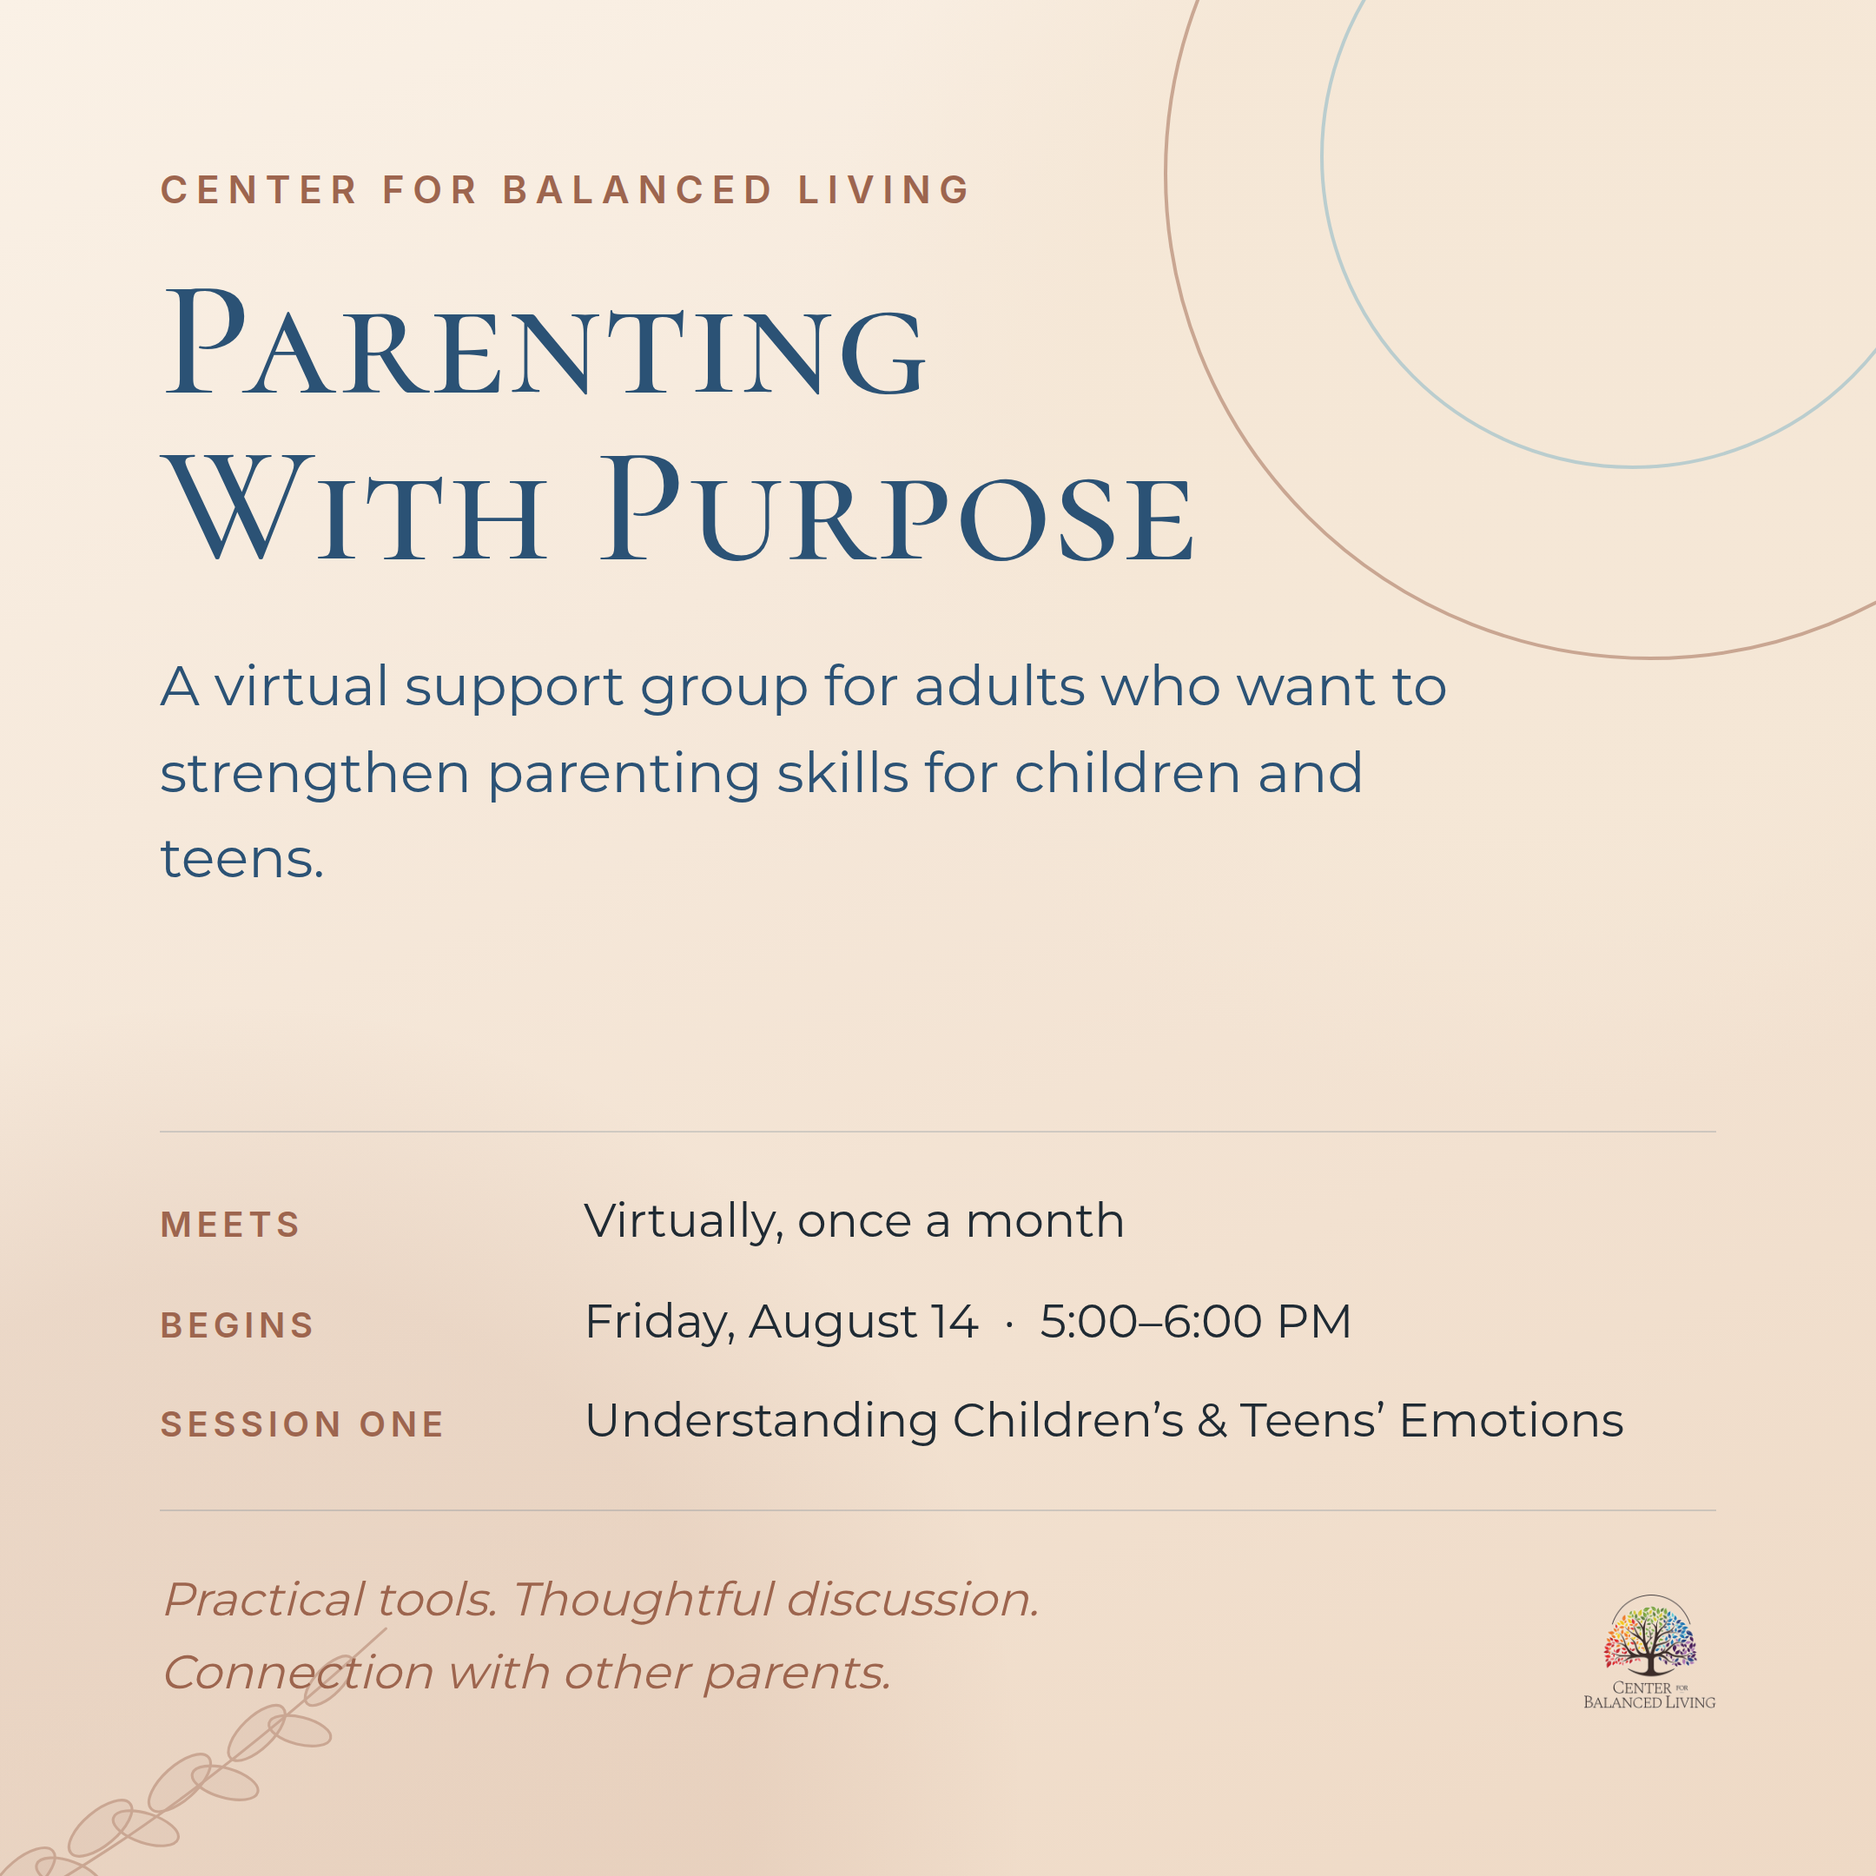
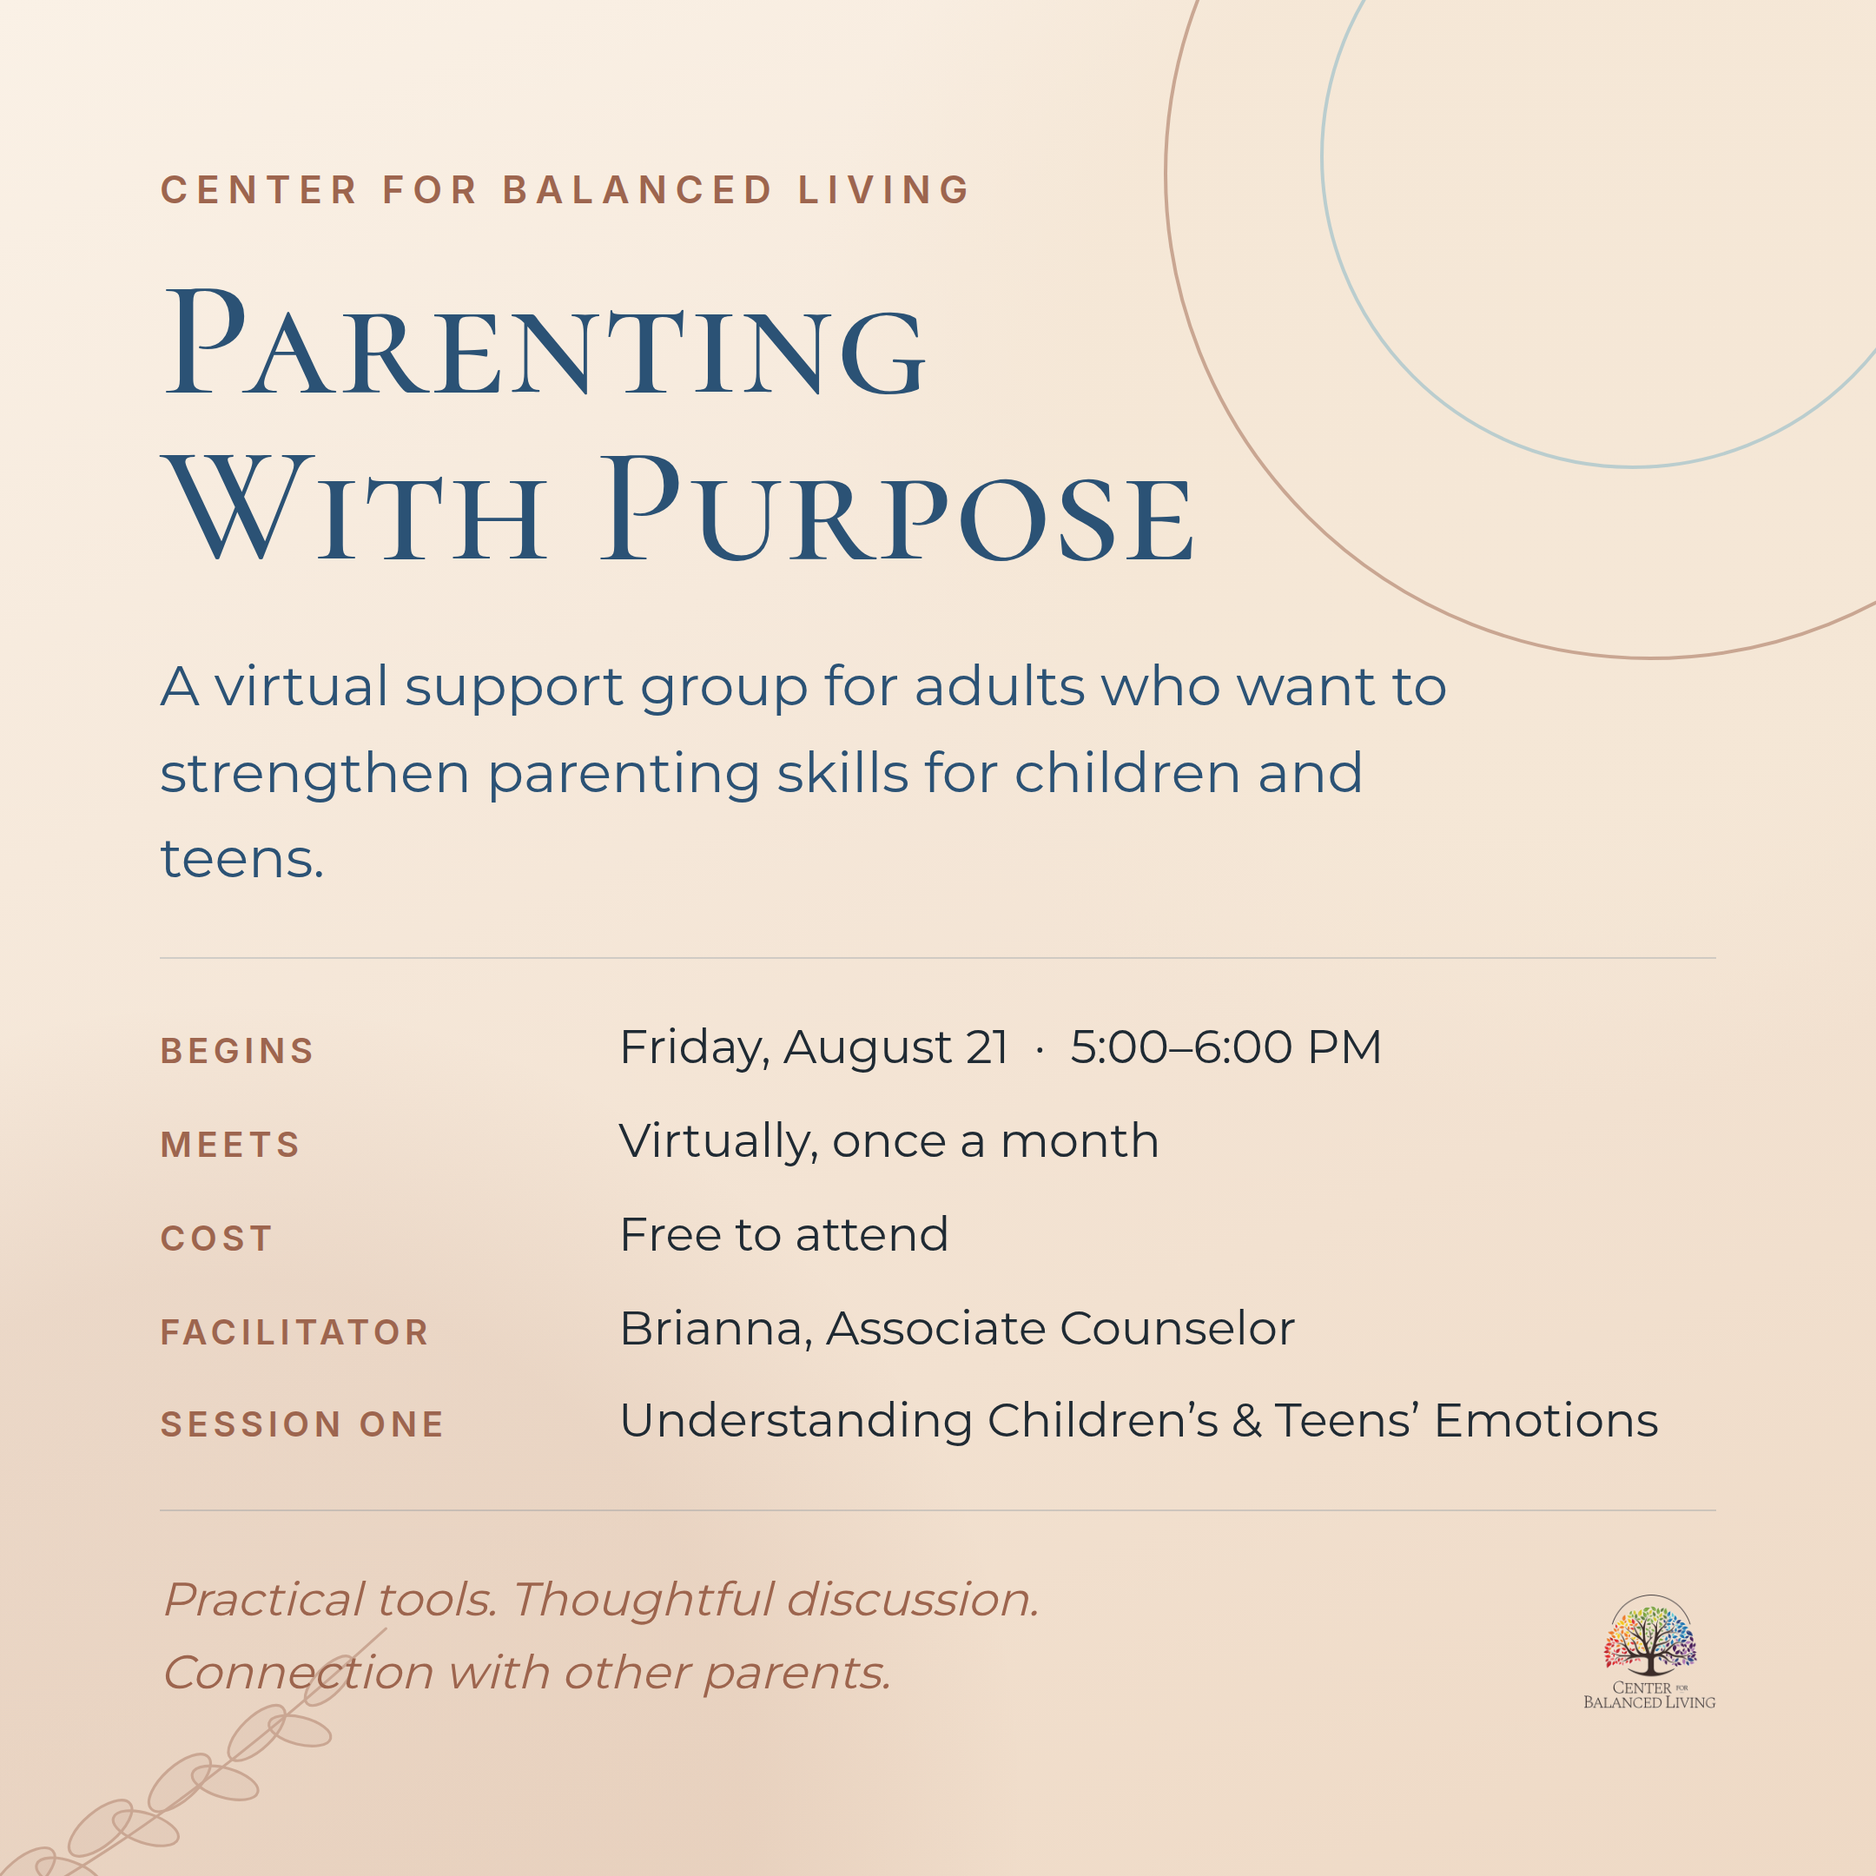
Update Parenting With Purpose assets and swap in approved EMDR graphic
- Parenting With Purpose start date corrected to Friday, August 21
- Add 'Free to attend' and facilitator 'Brianna, Associate Counselor'
- Use client-approved Nature-Based EMDR promo (retire backup)
- Refresh captions, alt text, and Shopify checklist notes

Claude-Session: https://claude.ai/code/session_019WVVTo5U2894eKUuHPjTGE

diff --git a/marketing/2026-07-27_week-Jul27-Aug02/src/row5.html b/marketing/2026-07-27_week-Jul27-Aug02/src/row5.html
@@ -29,10 +29,12 @@
 
   <div class="stack" style="position:relative;z-index:2;gap:30px;">
     <hr class="rule">
-    <div class="stack" style="gap:16px;">
-      <div class="detailrow"><span class="detail-label" style="width:230px;">Meets</span><span class="body b-sm" style="color:var(--cfbl-ink);">Virtually, once a month</span></div>
-      <div class="detailrow"><span class="detail-label" style="width:230px;">Begins</span><span class="body b-sm" style="color:var(--cfbl-ink);">Friday, August 14 &nbsp;&middot;&nbsp; 5:00&ndash;6:00 PM</span></div>
-      <div class="detailrow"><span class="detail-label" style="width:230px;">Session One</span><span class="body b-sm" style="color:var(--cfbl-ink);">Understanding Children&rsquo;s &amp; Teens&rsquo; Emotions</span></div>
+    <div class="stack" style="gap:12px;">
+      <div class="detailrow"><span class="detail-label" style="width:250px;">Begins</span><span class="body b-sm" style="color:var(--cfbl-ink);">Friday, August 21 &nbsp;&middot;&nbsp; 5:00&ndash;6:00 PM</span></div>
+      <div class="detailrow"><span class="detail-label" style="width:250px;">Meets</span><span class="body b-sm" style="color:var(--cfbl-ink);">Virtually, once a month</span></div>
+      <div class="detailrow"><span class="detail-label" style="width:250px;">Cost</span><span class="body b-sm" style="color:var(--cfbl-ink);">Free to attend</span></div>
+      <div class="detailrow"><span class="detail-label" style="width:250px;">Facilitator</span><span class="body b-sm" style="color:var(--cfbl-ink);">Brianna, Associate Counselor</span></div>
+      <div class="detailrow"><span class="detail-label" style="width:250px;">Session One</span><span class="body b-sm" style="color:var(--cfbl-ink);">Understanding Children&rsquo;s &amp; Teens&rsquo; Emotions</span></div>
     </div>
     <hr class="rule">
     <div style="display:flex;justify-content:space-between;align-items:flex-end;">

diff --git a/marketing/2026-07-27_week-Jul27-Aug02/src/row7.html b/marketing/2026-07-27_week-Jul27-Aug02/src/row7.html
@@ -28,7 +28,7 @@
 
   <div class="stack center" style="position:relative;z-index:2;gap:34px;">
     <hr class="rule-accent">
-    <p class="body b-md" style="color:var(--cfbl-deep-navy);letter-spacing:0.02em;">Parenting With Purpose begins August 14.</p>
+    <p class="body b-md" style="color:var(--cfbl-deep-navy);letter-spacing:0.02em;">Parenting With Purpose begins August 21.</p>
     <img class="cfbl-logo" src="assets/cfbl-tree-logo.png">
   </div>
 </div>

diff --git a/marketing/2026-07-27_week-Jul27-Aug02/CFBL_Weekly_Package_Jul27-Aug2.md b/marketing/2026-07-27_week-Jul27-Aug02/CFBL_Weekly_Package_Jul27-Aug2.md
@@ -13,14 +13,15 @@ All squares are **1080 × 1080** (exported at 2×). Reel frames are **1080 × 19
 
 ---
 
-## ⚠ Items to confirm BEFORE these go out
+## ✅ Confirmations applied (July 26)
 
-1. **Thu Jul 30 — Parenting With Purpose (Row 5).** The sheet marks this *"Needs fee and registration details."* Per brand rules I did **not** invent them. Before publishing, add:
-   - **Participation fee**
-   - **Registration method / link** (the live Shopify product page URL once published)
-   - **Facilitator listing** — the sheet says add *Brianna's* name **only after confirming how she should be listed** (name + credentials). Her name is currently **not** on the graphic.
-2. **Wed Jul 29 — Nature-Based EMDR (Row 4).** The sheet says *"reuse the completed Nature-Based EMDR promotional graphic — do not rebuild."* I could not access that original file, so I've prepared a fully on-brand version as a **drop-in backup**. If you have the approved original, use it instead; otherwise this one is ready.
-3. **Registration / blog links.** Add the final URLs (Institute registration pages, evaluation blog, Shopify product page) into each caption + the Meta link field before scheduling. Placeholders are marked `[LINK]` below.
+1. **Parenting With Purpose** now starts **Friday, August 21, 2026** (updated from Aug 14 across the Thursday post, Saturday still, and captions). *Note: same date as the Nature-Based EMDR workshop, but different audience and time — group is 5:00–6:00 PM, workshop is 12:00–3:00 PM.*
+2. **No fee** — the group is **free to attend** (now shown on the graphic).
+3. **Facilitator** listed as **"Brianna, Associate Counselor."** *(If you'd like her last name or license letters added, tell me and I'll update.)*
+4. **Nature-Based EMDR (Wed Jul 29)** now uses your **approved original graphic** (`03_Wed-Jul29_Institute-NatureEMDR-Promo_APPROVED.png`). My backup is retained as `…_BACKUP-unused.png`.
+5. **Links** — registration lives on the Shopify site (**balancedlivingde.com**). For each post, paste the specific Shopify product/page URL into Metricool's link field; captions point to the site.
+
+> **Shopify to-do:** update the Parenting With Purpose product page start date to **August 21** (the sheet's product description still says Aug 14).
 
 ---
 
@@ -98,7 +99,7 @@ All squares are **1080 × 1080** (exported at 2×). Reel frames are **1080 × 19
 
 ## POST 3 — Wed Jul 29 · CFBL Institute · Single promotional post
 **Topic:** Nature-Based EMDR — stronger clinical decisions
-**File:** `03_Wed-Jul29_Institute-NatureEMDR-Promo.png`  *(drop-in backup — see confirm item #2; use approved original if available)*
+**File:** `03_Wed-Jul29_Institute-NatureEMDR-Promo_APPROVED.png`  *(your approved original graphic)*
 
 **Caption (verbatim):**
 > A clinically useful training should change how you assess, decide, and respond—not simply give you a list of appealing interventions.
@@ -121,7 +122,7 @@ All squares are **1080 × 1080** (exported at 2×). Reel frames are **1080 × 19
 
 **Alt text:** "CFBL Institute promotional graphic: 'A Training Should Change Your Clinical Decision-Making — not merely give you more interventions.' Details: Nature-Based EMDR, Friday August 21, 2026, 12:00–3:00 PM ET, live via Zoom, 3 EMDRIA credits. Register today."
 
-**Checklist:** ☑ Brand (Institute) ☑ Date (Aug 21) ☑ Time (12–3 ET) ☑ CTA present ☐ Link to add ☑ Grammar ☑ Mobile readable ⚠ Prefer approved original graphic if on hand
+**Checklist:** ☑ Brand (Institute) ☑ Date (Aug 21) ☑ Time (12–3 ET) ☑ CTA present ☑ Approved original graphic ☐ Link to add ☑ Grammar ☑ Mobile readable
 
 ---
 
@@ -129,32 +130,30 @@ All squares are **1080 × 1080** (exported at 2×). Reel frames are **1080 × 19
 **Topic:** Parenting With Purpose — monthly virtual support group
 **Files:** `04_Thu-Jul30_CFBL-ParentingWithPurpose_WITH-TEXT.png` (post) · `…_BACKGROUND-no-text.png` (text-free version for a real lifestyle photo overlay or reuse)
 
-> **⚠ Do not publish until confirmed:** participation fee, registration method/link, and how Brianna should be listed (name + credentials). None are shown on the current graphic. See the Shopify image prompt below if you want to swap in a real warm parent-child photo.
-
-**Caption (verbatim):**
+**Caption (updated date + free + facilitator):**
 > Parenting children and teens can involve moments of pride, uncertainty, conflict, connection, and constant adjustment.
 >
 > Parenting With Purpose is a monthly virtual support group for adults who want to strengthen their parenting skills while connecting with others facing similar questions.
 >
 > The first meeting will focus on understanding children's and teens' emotions. Participants will explore emotional cues, reflection questions, and practical ways to support emotional awareness at home.
 >
-> Beginning Friday, August 14
-> 5:00–6:00 PM
-> Virtual
+> Beginning Friday, August 21
+> 5:00–6:00 PM · Virtual · Free to attend
+> Facilitated by Brianna, Associate Counselor
 >
-> Contact Center for Balanced Living for registration information.
+> Registration is on our website — contact Center for Balanced Living to learn more.
 
 **Hashtags:** #CenterForBalancedLivingDE #CFBL #ParentSupport #ParentingSkills #ParentingTeens #ParentingWithPurpose
 **CTA:** Contact CFBL to register or learn more.
 **Link:** [LINK — Parenting With Purpose Shopify product page, once published]
 **Suggested time:** Thu 7:00 PM ET (parent audience, evening)
 
-**Alt text:** "Warm sand-toned graphic with a botanical sprig: 'Parenting With Purpose — a virtual support group for adults who want to strengthen parenting skills for children and teens.' Meets virtually once a month, begins Friday August 14, 5:00–6:00 PM. Session one: Understanding Children's & Teens' Emotions. Center for Balanced Living."
+**Alt text:** "Warm sand-toned graphic with a botanical sprig: 'Parenting With Purpose — a virtual support group for adults who want to strengthen parenting skills for children and teens.' Begins Friday August 21, 5:00–6:00 PM; meets virtually once a month; free to attend; facilitated by Brianna, Associate Counselor. Session one: Understanding Children's & Teens' Emotions. Center for Balanced Living."
 
 **Shopify image prompt (art direction, if commissioning/using a real photo):**
 > A warm, welcoming home setting where a parent and preteen are sitting together at a table having a calm, thoughtful conversation… soft sage green, cream, and natural wood tones; houseplants; gentle natural window light; authentic expressions; emotionally safe and hopeful; realistic professional lifestyle photography; no text; generous negative space top/side for copy. Avoid exaggerated smiles, staged poses, clinical office atmosphere.
 
-**Checklist:** ☑ Brand (CFBL) ☑ Date (Aug 14) ☑ Time (5–6 PM) ☐ **Fee missing** ☐ **Registration method missing** ☐ **Facilitator listing missing** ☑ Grammar ☑ Mobile readable
+**Checklist:** ☑ Brand (CFBL) ☑ Date (Aug 21) ☑ Time (5–6 PM) ☑ Fee (free) ☑ Facilitator (Brianna, Associate Counselor) ☐ Add specific Shopify link ☑ Grammar ☑ Mobile readable
 
 ---
 
@@ -202,7 +201,7 @@ All squares are **1080 × 1080** (exported at 2×). Reel frames are **1080 × 19
 >
 > Support does not mean someone else has the perfect answer. It means having a place to think, learn, ask questions, and feel less alone while developing skills that fit your family.
 >
-> Parenting With Purpose begins August 14 and will meet virtually once a month.
+> Parenting With Purpose begins August 21 and will meet virtually once a month.
 >
 > Contact CFBL for information.
 
@@ -211,7 +210,7 @@ All squares are **1080 × 1080** (exported at 2×). Reel frames are **1080 × 19
 **Link:** [LINK — Parenting With Purpose page] *(link back to the product page)*
 **Suggested time:** Sat 10:00 AM ET
 
-**Alt text:** "Warm sand-toned graphic: 'Parenting Is Personal. It does not have to be isolating. Parenting With Purpose begins August 14.' Center for Balanced Living."
+**Alt text:** "Warm sand-toned graphic: 'Parenting Is Personal. It does not have to be isolating. Parenting With Purpose begins August 21.' Center for Balanced Living."
 
 **Checklist:** ☑ Brand (CFBL) ☑ Date (Aug 14) ☑ Times n/a ☑ CTA present ☐ Link to add ☑ Grammar ☑ Mobile readable
 
@@ -250,9 +249,10 @@ All squares are **1080 × 1080** (exported at 2×). Reel frames are **1080 × 19
 ---
 
 ## Shopify Launch Checklist status (from sheet, tab 2)
+Resolved: **fee = free**, **facilitator = Brianna, Associate Counselor**, **start date = Aug 21** (update the product page — sheet still says Aug 14).
 Still **To do / Confirm** before the Parenting With Purpose product page goes live:
-- Product **image** created/uploaded · **price** (confirm fee) · checkout button tested (mobile + desktop) · confirmation email (Zoom access + contact)
-- Page content: who it's for · **facilitator bio & credentials (Brianna)** · confidentiality & group limits (is it therapy?) · attendance/missed-session policy · **Delaware residency requirement?**
-- Marketing: copy final product URL back into the sheet · schedule Thu announcement, Sat community post, and Story sequence (announcement → who it's for → first session → registration CTA)
+- Product **image** uploaded · set price to **$0 / free** · checkout or RSVP button tested (mobile + desktop) · confirmation email (Zoom access + contact)
+- Page content: who it's for · **Brianna's bio** (associate counselor — note supervising clinician if required for compliance) · confidentiality & group limits (is it therapy or support/education?) · attendance/missed-session policy · **Delaware residency requirement?**
+- Marketing: copy final product URL into each post's link field · schedule Thu announcement, Sat community post, and Story sequence (announcement → who it's for → first session → registration CTA)
 
 Everything else in tab 2 (title, description, SEO title, meta description, URL handle `parenting-with-purpose`, tags, product type, vendor, collection) is marked **Done**.
